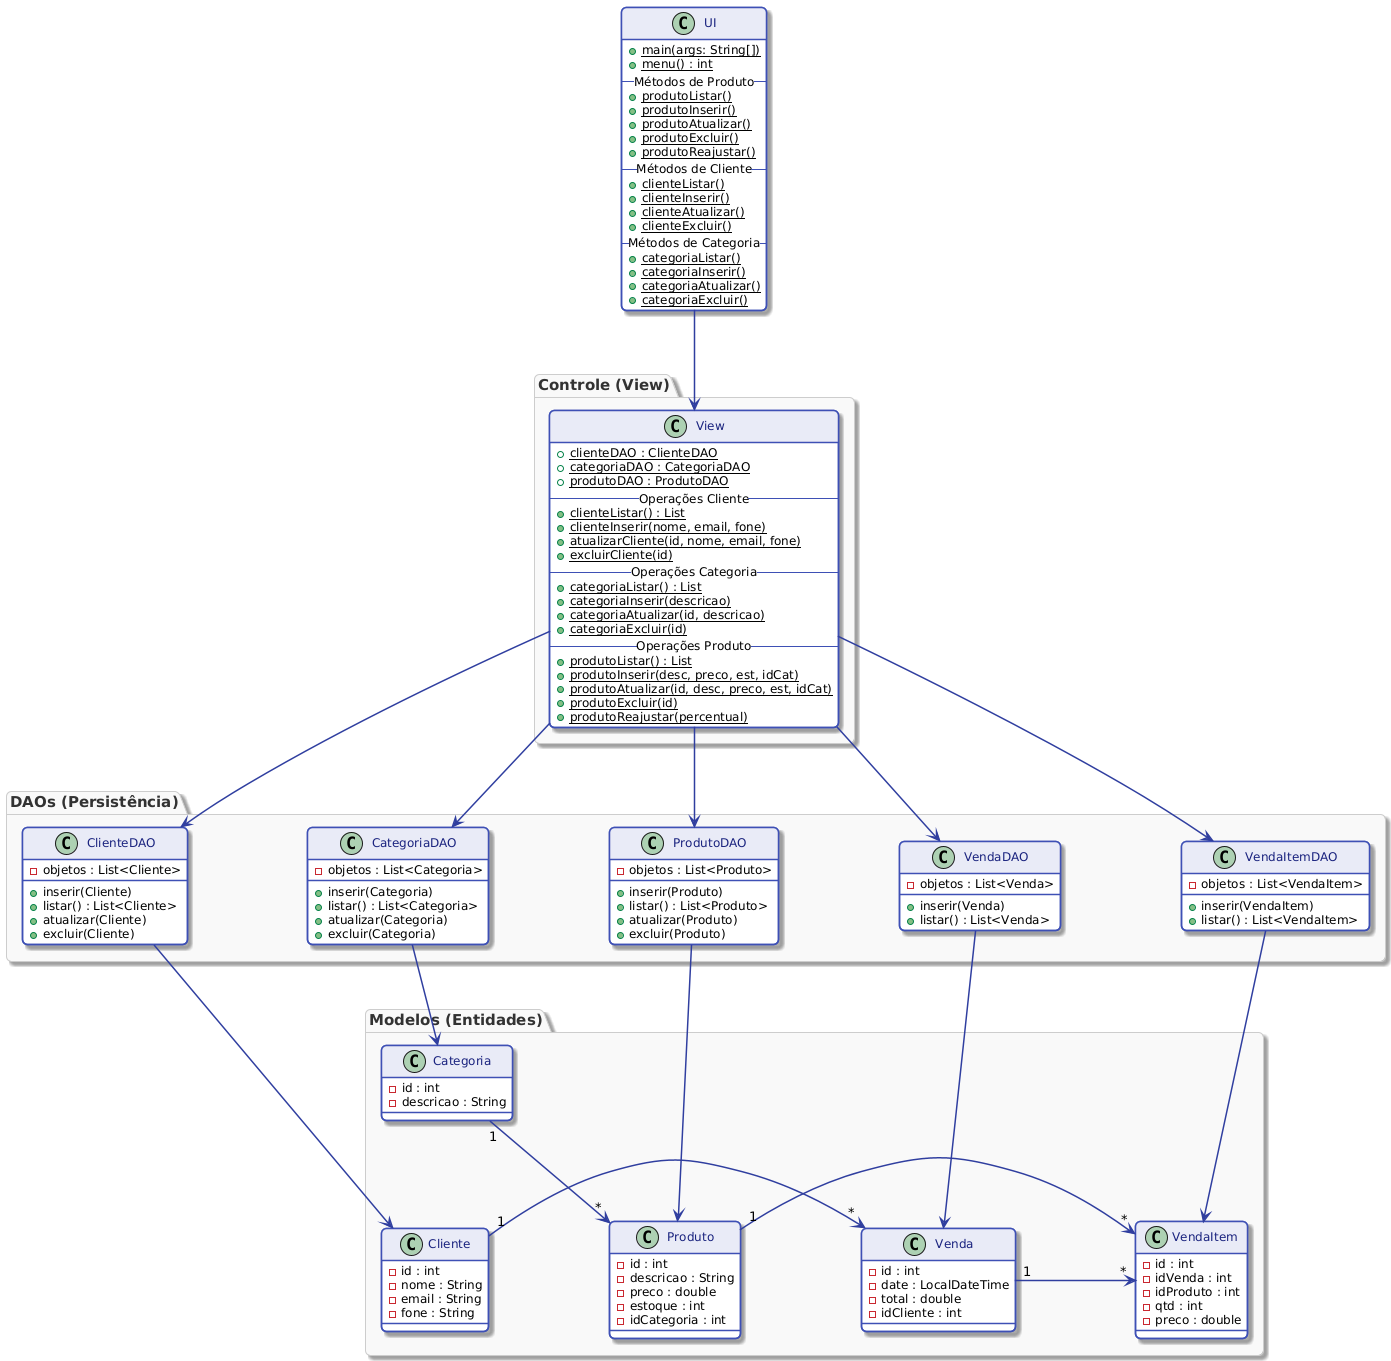
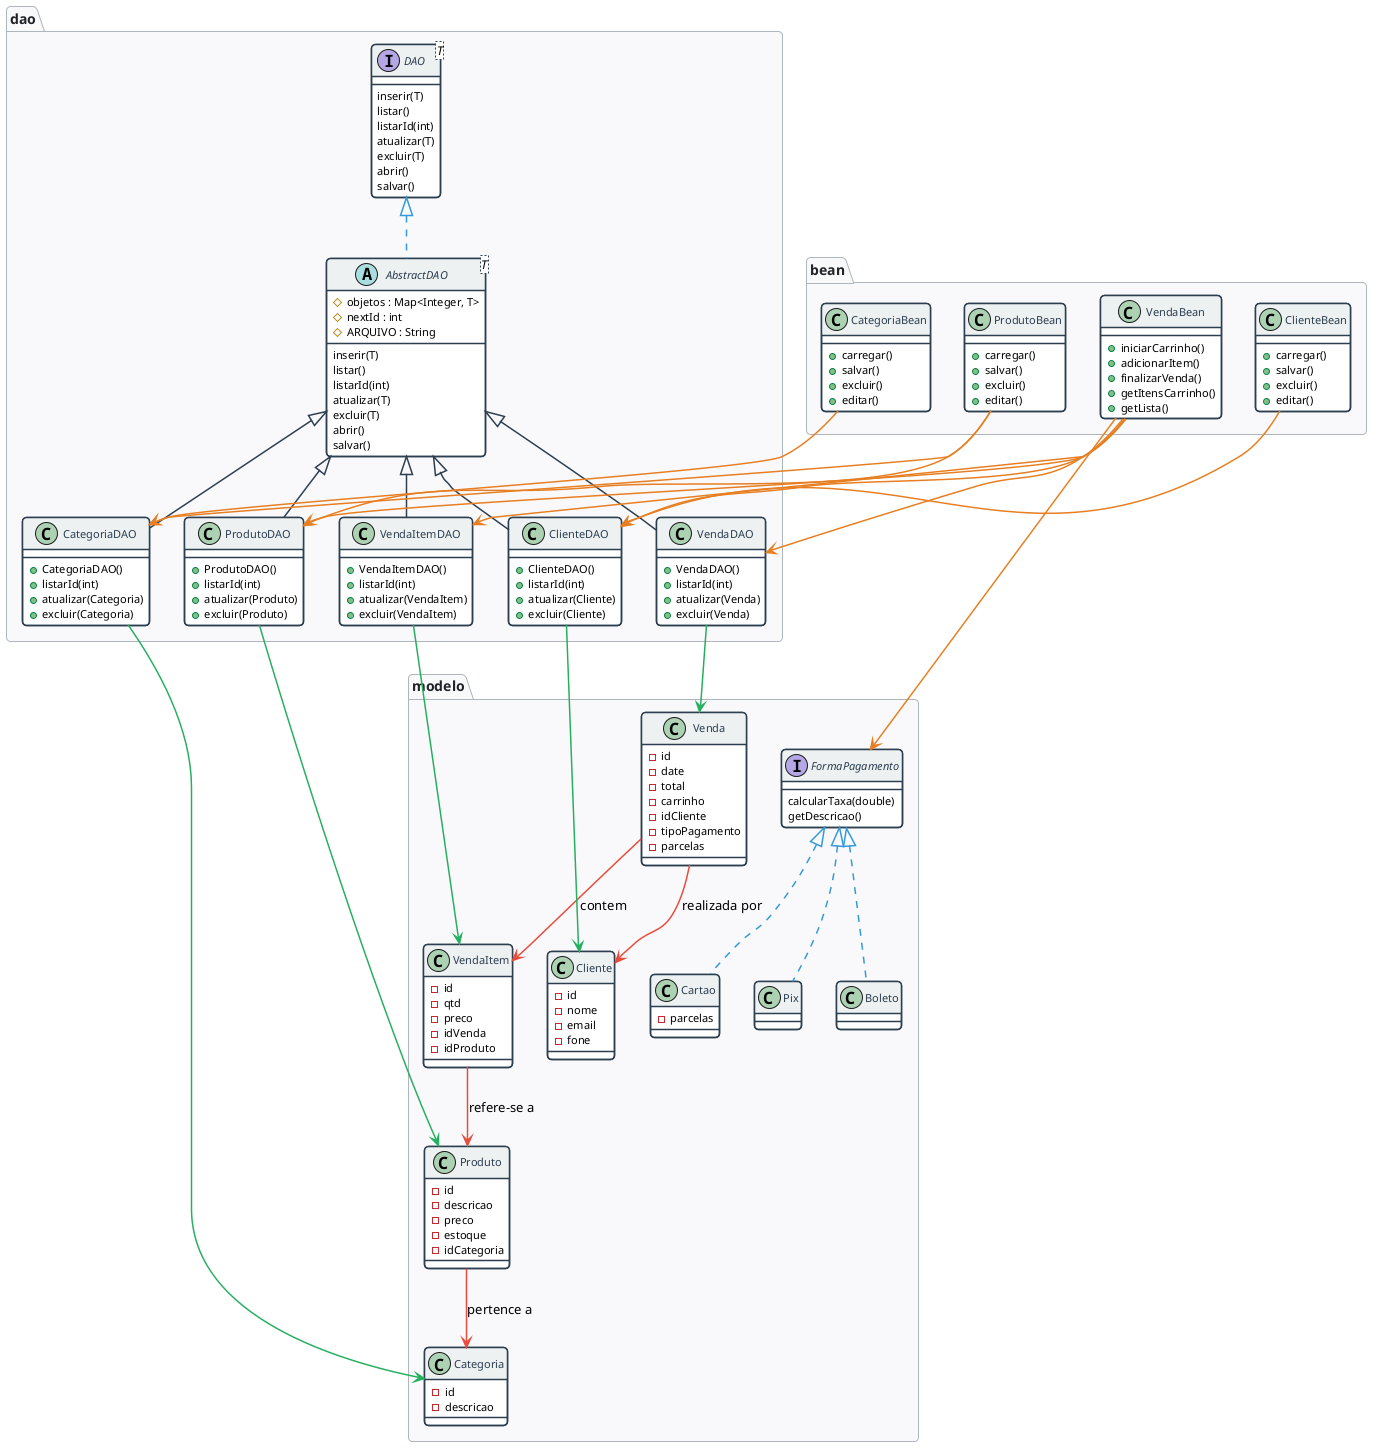
docs: refatorar diagrama uml para a versão atual do codigo e atualizar readmeMD

diff --git a/readme.MD b/readme.MD
@@ -1,51 +1,93 @@
+# Sistema de Comercio Eletronico
 
-# Sistema de Comércio Eletrônico
-
-Este projeto consiste em um sistema de gerenciamento para e-commerce, desenvolvido em **Java** como parte da disciplina de Programação Orientada a Objetos. O sistema implementa o padrão de projeto DAO (Data Access Object) para persistência de dados e utiliza a biblioteca Jackson para serialização/desserialização de objetos em formato JSON.
+Sistema de gerenciamento para e-commerce desenvolvido em **Java 21** com **Jakarta Faces 4.0**, seguindo o padrao DAO com persistencia em arquivos JSON via Jackson.
 
 ## Funcionalidades
 
-O sistema permite o gerenciamento completo (CRUD) das seguintes entidades:
-
-* **Clientes:** Cadastro, listagem, atualização e exclusão de dados cadastrais.
-* **Produtos:** Gerenciamento de catálogo, incluindo preço, estoque e vínculo com categorias.
-* **Categorias:** Organização de produtos por categorias.
-* **Vendas:** Registro de pedidos e itens vinculados.
+- **Clientes:** CRUD completo com nome, e-mail e telefone.
+- **Categorias:** Organizacao de produtos por categoria.
+- **Produtos:** Catalogo com preco, estoque e vinculo com categoria.
+- **Vendas:** Carrinho de compras, selecao de forma de pagamento (Boleto, Cartao, Pix) com calculo de taxas/descontos, e baixa no estoque.
 
 ## Estrutura do Projeto
 
-O projeto foi organizado seguindo boas práticas de desenvolvimento Java, com a separação de responsabilidades em pacotes:
+```
+src/main/java/
+├── dao/           Interface DAO<T>, classe abstrata AbstractDAO<T> e 5 DAOs concretos
+├── modelo/        Entidades do dominio (Categoria, Cliente, Produto, Venda, VendaItem)
+├── modelo/pagamento/  Interface FormaPagamento + implementacoes (Boleto, Cartao, Pix)
+├── bean/          Managed Beans JSF (CategoriaBean, ClienteBean, ProdutoBean, VendaBean)
+└── exception/     Excecoes personalizadas (NaoEncontrada para cada entidade)
 
-* `modelo`: Classes que definem as entidades do domínio (POJOs).
-* `dao`: Classes responsáveis pela persistência dos dados e lógica de acesso.
-* `ui`: Interface de linha de comando para interação com o usuário.
+src/main/webapp/
+├── clientes/      Paginas XHTML para CRUD de clientes
+├── categorias/    Paginas XHTML para CRUD de categorias
+├── produtos/      Paginas XHTML para CRUD de produtos
+└── vendas/        Paginas XHTML para carrinho e listagem de vendas
+```
 
-## Tecnologias Utilizadas
+## Tecnologias
 
-* **Linguagem:** Java (versão 21)
-* **Gerenciador de Dependências:** Apache Maven
-* **Persistência:** Jackson (jackson-databind) para manipulação de arquivos JSON
-
-## Pré-requisitos
-
-Para executar o projeto, é necessário ter instalado:
-
-* JDK (Java Development Kit) 21 ou superior.
-* Apache Maven.
+| Tecnologia | Versao |
+|------------|--------|
+| Java | 21 |
+| Jakarta Faces (JSF) | 4.0.6 |
+| CDI (Weld) | 5.1.2 |
+| Servlet | 6.0 |
+| Jackson | 2.15.2 |
+| Maven | 3.9+ |
+| Tomcat | 10.1+ |
 
 ## Como Executar
 
-1. Clone o repositório para sua máquina local.
-2. No diretório raiz do projeto, certifique-se de que o arquivo `pom.xml` está configurado corretamente.
-3. Compile o projeto via terminal ou IDE:
-```bash
-mvn clean compile
+### Com Docker (recomendado)
 
+```bash
+# Build e executa
+docker compose up --build
+
+# Acesse em http://localhost:8080
 ```
 
+### Com Podman (Linux)
 
-4. Execute a classe `UI.java` localizada no pacote `ui`.
+```bash
+# Build e executa (alias podman-compose ou docker-compose)
+podman compose up --build
 
-## Diagrama de Arquitetura
+# Acesse em http://localhost:8080
+```
 
-![Diagrama UML do Sistema de Comércio Eletrónico](src/docs/diagramaClasses2.png)
+> Dica: No Linux, `podman compose` aceita os mesmos comandos do `docker compose`. Certifique-se de ter o `podman-compose` instalado (`sudo dnf install podman-compose` no Fedora ou `sudo apt install podman-compose` no Ubuntu/Debian).
+
+### Sem Docker (desenvolvimento local)
+
+**Pre-requisitos:** JDK 21, Maven 3.9+, Tomcat 10.1+
+
+```bash
+# Compilar e empacotar
+mvn clean package
+
+# O arquivo target/ComercioEletronico.war sera gerado
+# Copie para a pasta webapps/ do Tomcat 10.1+ e inicie o servidor
+
+# Acesse em http://localhost:8080/ComercioEletronico/
+```
+
+### Deploy no Render
+
+O Dockerfile ja esta configurado para deploy como **ROOT.war** no Tomcat, tornando a aplicacao acessivel na raiz do dominio. Basta conectar o repositorio ao Render como servico web usando o Dockerfile.
+
+## Diagrama UML
+
+![Diagrama UML](src/docs/diagramaClasses2.png)
+
+### Legenda das setas
+
+| Cor | Relacao |
+|-----|---------|
+| Azul (tracejado) | Realizacao de interface (`implements`) |
+| Preto (solido) | Heranca (`extends`) |
+| Verde | DAO gerencia entidade |
+| Laranja | Bean utiliza DAO |
+| Vermelho | Relacionamento entre entidades (FK)